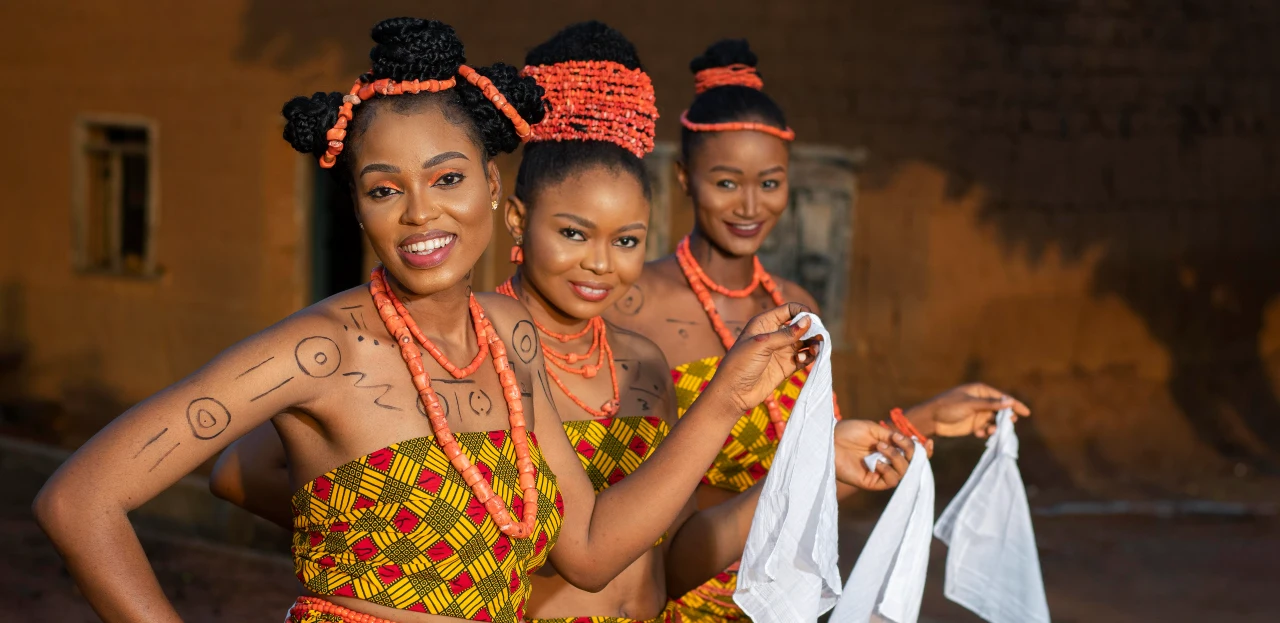
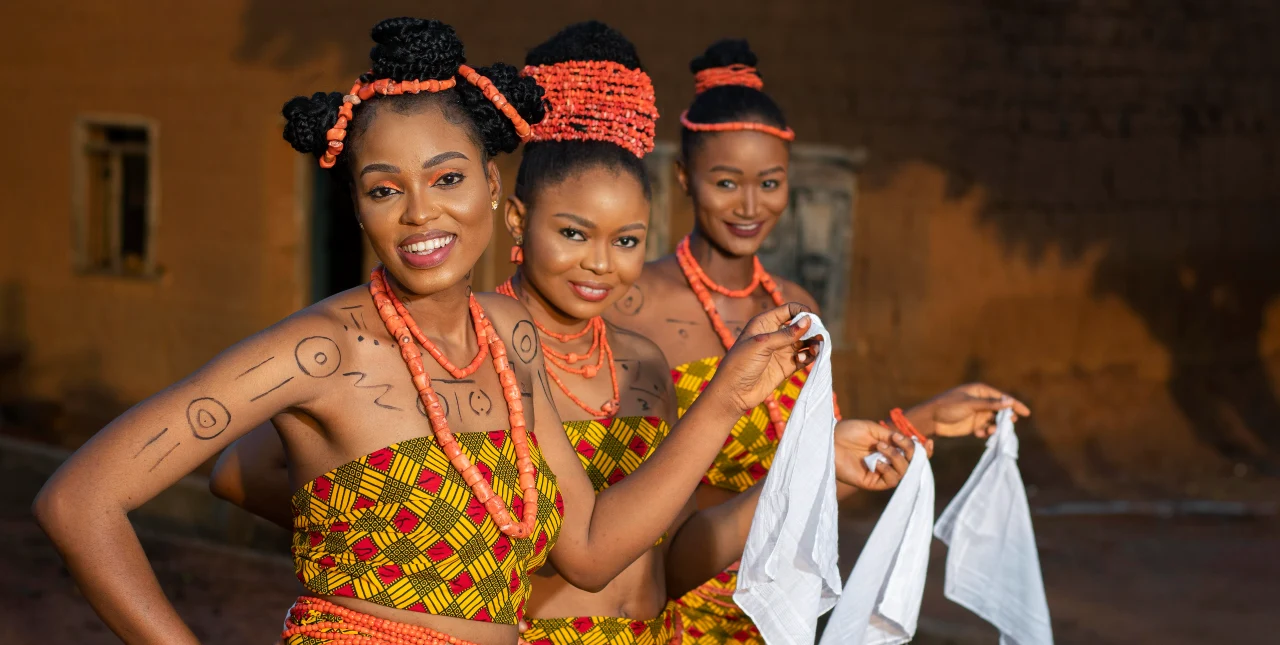
update

diff --git a/chamber/index.html b/chamber/index.html
@@ -49,19 +49,32 @@
     <main class="home-grid">
     <section class="hero">
         <picture>
-            <source srcset="images/enugu-large.webp" media="(min-width: 600px)">
-            <img src="" alt="Enugu City Business District Hero Banner" class="hero-img">
-        </picture>
+    <!-- Large screens -->
+    <source 
+        srcset="images/enugu-large.webp" 
+        media="(min-width: 1024px)">
+
+    <!-- Medium screens -->
+    <source 
+        srcset="images/enugu-medium.webp" 
+        media="(min-width: 600px)">
+
+    <!-- Small screens fallback -->
+    <img 
+        src="images/enugu-small.webp" 
+        alt="Enugu City Business District Hero Banner" 
+        class="hero-img">
+</picture>
         <div class="hero-cta">
             <a href="join.html" class="cta-btn">Join Us</a>
         </div>
     </section>
 
-    <h2>Home</h2>
+    <h1>Home</h1>
 
     <div class="info-grid">
         <section class="card events-card">
-            <h3>Events</h3>
+            <h2>Events</h2>
             <div class="card-content">
                 <p><strong>Upcoming Business Summit 2026</strong></p>
                 <p>Join us this Friday for our quarterly networking cocktail mixer at Ogui Road.</p>
@@ -69,14 +82,14 @@
         </section>
 
         <section class="card weather-current">
-            <h3>Current Weather</h3>
+            <h2>Current Weather</h2>
             <div id="current-weather-content" class="card-content weather-layout">
                 <p>Loading current weather...</p>
             </div>
         </section>
 
         <section class="card weather-forecast">
-            <h3>Weather Forecast</h3>
+            <h2>Weather Forecast</h2>
             <div id="forecast-content" class="card-content">
                 <p>Loading forecast...</p>
             </div>
@@ -84,7 +97,7 @@
     </div>
 
     <section class="spotlight-section">
-        <h3>Chamber Member Spotlights</h3>
+        <h2>Chamber Member Spotlights</h2>
         <div id="spotlight-container" class="spotlight-grid">
             <p>Loading featured members...</p>
         </div>

diff --git a/chamber/styles/small.css b/chamber/styles/small.css
@@ -29,9 +29,17 @@
     --card-shadow: rgba(0, 0, 0, 0.24) 0px 3px 8px;
 }
 
+
 /* =========================
    GLOBAL STYLES
 ========================= */
+
+* {
+        margin: 0;
+        padding: 0;
+    box-sizing: border-box;
+}
+
 body {
     margin: 0;
     padding: 0;
@@ -40,7 +48,7 @@ body {
     background-color: var(--secondary-color);
 }
 
-h1, h2, h3, h4 {
+h1, h2 {
     font-family: var(--heading-font);
     font-weight: bold;
 }
@@ -48,14 +56,9 @@ h1 {
     font-size: 2rem;
 }
 h2 {
-    font-size: 1.75rem;
-}
-h3 {
     font-size: 1.5rem;
 }
-h4 {
-    font-size: 1.25rem;
-}
+
 
 /* =========================
    REUSABLE UTILITIES
@@ -163,7 +166,6 @@ header {
 main {
     max-width: 1200px;
     margin: 0 auto;
-    padding: 1.5rem 1rem;
 }
 
 .directory-title {
@@ -294,7 +296,6 @@ footer {
 .home-grid h2 {
     font-size: 2rem;
     margin: 1rem 0;
-    border-bottom: 2px solid #333;
 }
 
 /* --- Hero Element --- */
@@ -353,9 +354,9 @@ footer {
     overflow: hidden;
 }
 
-.card h3 {
-    background-color: #333;
-    color: #fff;
+.card h2 {
+    background-color: var(--primary-color);
+    color: var(--white);
     margin: 0;
     padding: 0.75rem;
     font-size: 1.1rem;
